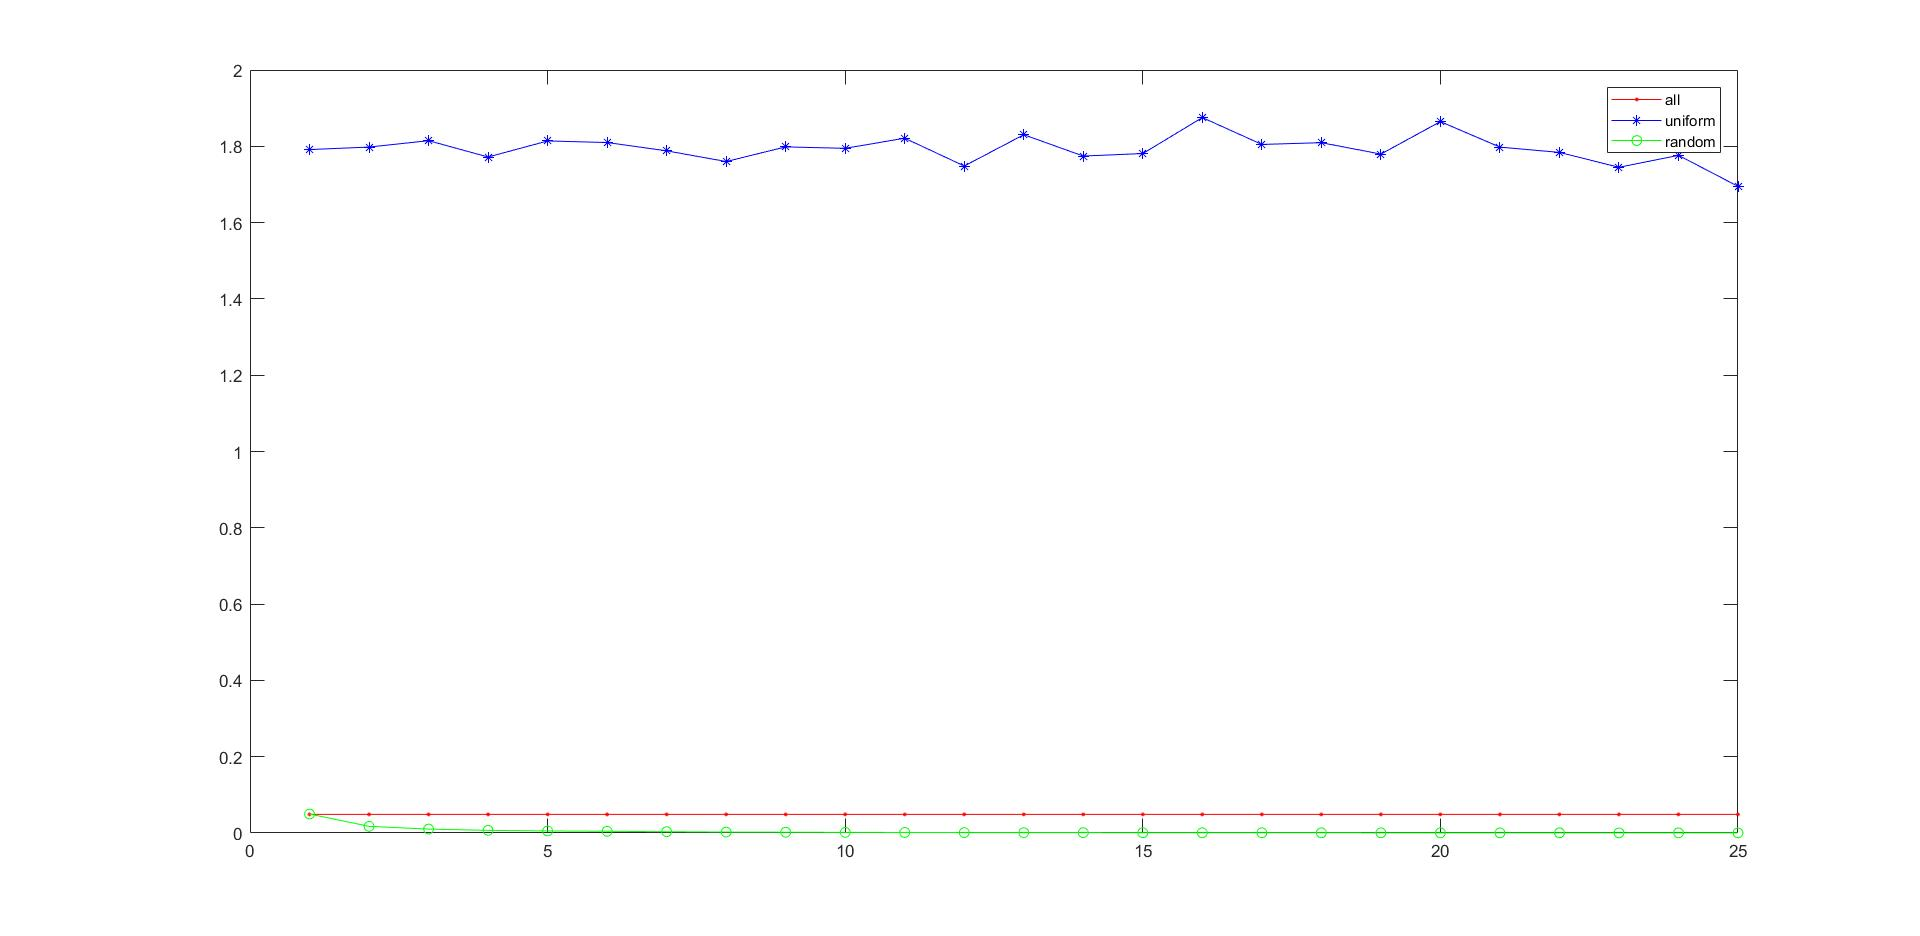
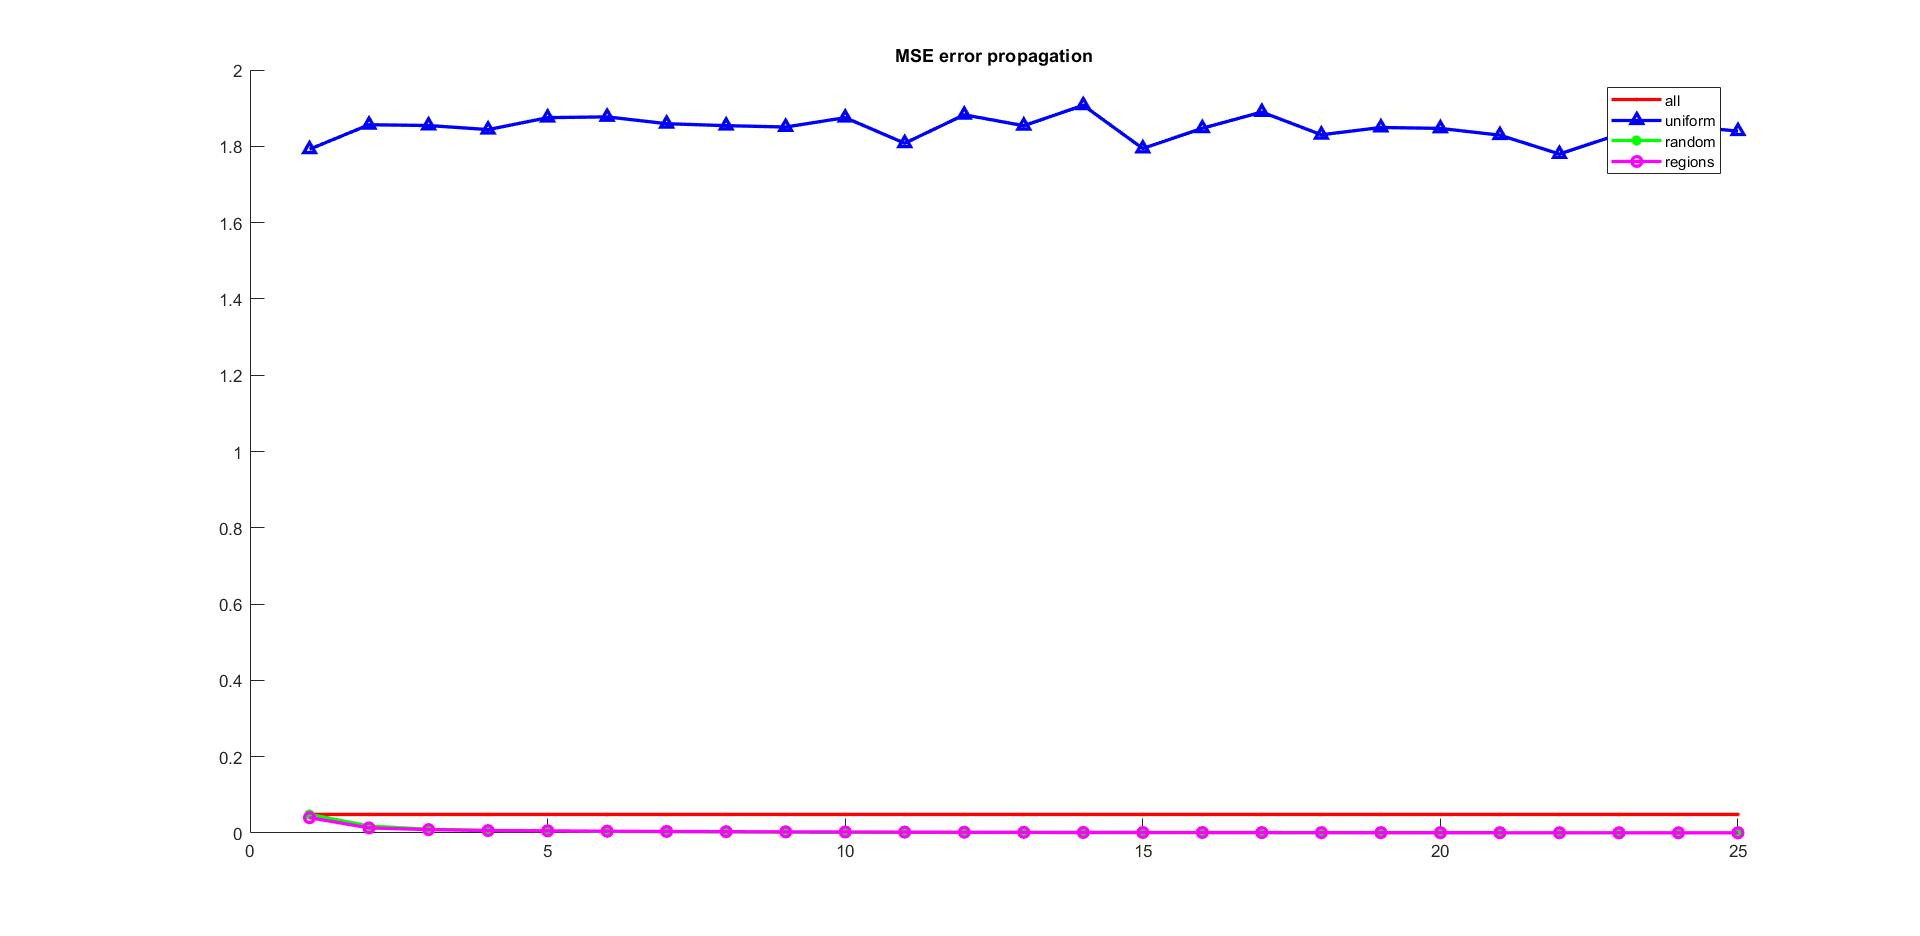
Add structured code of sampling method comparision

Changed region(s): [[0.1562, 0.0929, 0.9062, 0.1859], [0.1562, 0.8675, 0.9062, 0.8985], [0.4688, 0.031, 0.5625, 0.0929]]

diff --git a/Assignment-1/compare_sampling_methods.m b/Assignment-1/compare_sampling_methods.m
@@ -1,0 +1,72 @@
+function [] = compare_sampling_methods()
+
+    load('Data\source.mat', 'source');
+    load('Data\target.mat', 'target');
+    
+    sample_size = 1000;
+    threshold = 0.00001;
+    n_iterations = 25;
+    sample_types = ["all", "uniform", "random", "regions"];
+    rms = {};
+    mse = {};
+    source_transformed = {};
+    
+    tic
+    i = 1;
+    for sample_type = sample_types
+        disp(sprintf('Running ICP test for sample type: %s', sample_type));
+        [~, ~, source_transformed{i}, rms{i}, mse{i}] = run_icp(source, target, threshold, ...
+            sample_type, sample_size, n_iterations);
+        i = i + 1;
+    end
+    toc
+
+    % Plot the results from various sampling methods
+    i = 1;
+    figure()
+    for sample_type = sample_types
+        subplot(2,2,i)
+        hold on;
+        new = source_transformed{i};
+        scatter3(source(1,:), source(2, :), source(3, :), 'b');
+        scatter3(target(1,:), target(2, :), target(3, :), 'r');
+        scatter3(new(1,:), new(2, :), new(3, :), 'g');
+        legend('source', 'target', 'transformed source');
+        title(sample_type);
+        hold off
+        i = i + 1;
+    end
+    
+    % Plot the RMS value propagation for various sampling methods
+    color = ["-r.", "-b^", "-g*", "-mo"];
+    figure()
+    hold on
+    i = 1;
+    for sample_type = sample_types
+        iterations = 1:n_iterations;
+        rms_values = zeros(1, n_iterations);
+        rms_values(:, 1:size(rms{i}, 2)) = rms{i};
+        rms_values(:, size(rms{i}, 2):end) = rms{i}(:, end);
+        plot(iterations, rms_values, color(:,i), 'LineWidth', 2.0);
+        i = i + 1;
+    end
+    legend(sample_types);
+    title('RMS value propagation');
+    hold off
+        
+    % Plot the MSE error propagation for various sampling methods
+    figure()
+    hold on
+    i = 1;
+    for sample_type = sample_types
+        iterations = 1:n_iterations;
+        mse_values = zeros(1, n_iterations);
+        mse_values(:, 1:size(mse{i}, 2)) = mse{i};
+        mse_values(:, size(mse{i}, 2):end) = mse{i}(:, end);
+        plot(iterations, mse_values, color(:,i), 'LineWidth', 2.0);
+        i = i + 1;
+    end
+    legend(sample_types);
+    title('MSE error propagation');
+    hold off
+end

diff --git a/Assignment-1/main.m b/Assignment-1/main.m
@@ -15,47 +15,7 @@ n_iterations = 25;                  % Max number of iterations of ICP
 ICP_test(test_scene, sample_type, sample_size, threshold, n_iterations);
 
 %% Compare the various sampling methods
-% compare_sampling_methods(test_scene);
-
-%% Run the ICP test for given sample source and destination
-% load('Data\source.mat', 'source');
-% load('Data\target.mat', 'target');
-
-% tic
-% [R, T, source_transformed, rms1, mse1] = run_icp(source, target, 0.001, 'all');
-% toc
-% tic
-% [R, T, source_transformed, rms2, mse2] = run_icp(source, target, 0.001, 'uniform');
-% toc
-% tic
-% [R, T, source_transformed, rms3, mse3] = run_icp(source, target, 0.001, 'random');
-% toc
-% index = randsample(1:60000, 10000);
-% source = source(:, index);
-% target = target(:, index);
-% source_transformed = source_transformed(:, index);
-% figure()
-% subplot(2,2,1)
-% scatter3(source(1,:), source(2, :), source(3, :), 'b'); title('source');
-% subplot(2,2,2)
-% scatter3(target(1,:), target(2, :), target(3, :), 'r'); title('target');
-% subplot(2,2,3)
-% hold on;
-% scatter3(source(1,:), source(2, :), source(3, :), 'b');% title('source');
-% scatter3(target(1,:), target(2, :), target(3, :), 'r');% title('target');
-% scatter3(source_transformed(1,:), source_transformed(2, :), source_transformed(3, :), 'g');% title('target');
-% legend('source', 'target', 'transformed source');
-% hold off
-% subplot(2,2,4)
-% figure
-% iterations = 1:25;
-% plot(iterations, rms1, '-r.', iterations, rms2, '-b*', iterations, rms3, '-go');
-% legend('all', 'uniform', 'random');
-% 
-% figure
-% iterations = 1:25;
-% plot(iterations, mse1, '-r.', iterations, mse2, '-b*', iterations, mse3, '-go');
-% legend('all', 'uniform', 'random');
+compare_sampling_methods();
 
 %% Run full ICP on point clouds
 % icp_iterative();

diff --git a/Assignment-1/run_icp.m b/Assignment-1/run_icp.m
@@ -65,7 +65,7 @@ function [R_accumulative, T_accumulative, A1, rms_values, mse_values] = run_icp(
         rms_values(end+1) = rms_value;
         mse_values(end+1) = mse;
         disp(sprintf('Iteration %d: rms value=%f, mse error=%f', iteration, rms_value, mse));
-        if abs(rms_value - prev_rms) < threshold
+        if abs(rms_value - prev_rms) < threshold && iteration > 9
             done = false;
         end
         prev_rms = rms_value;
